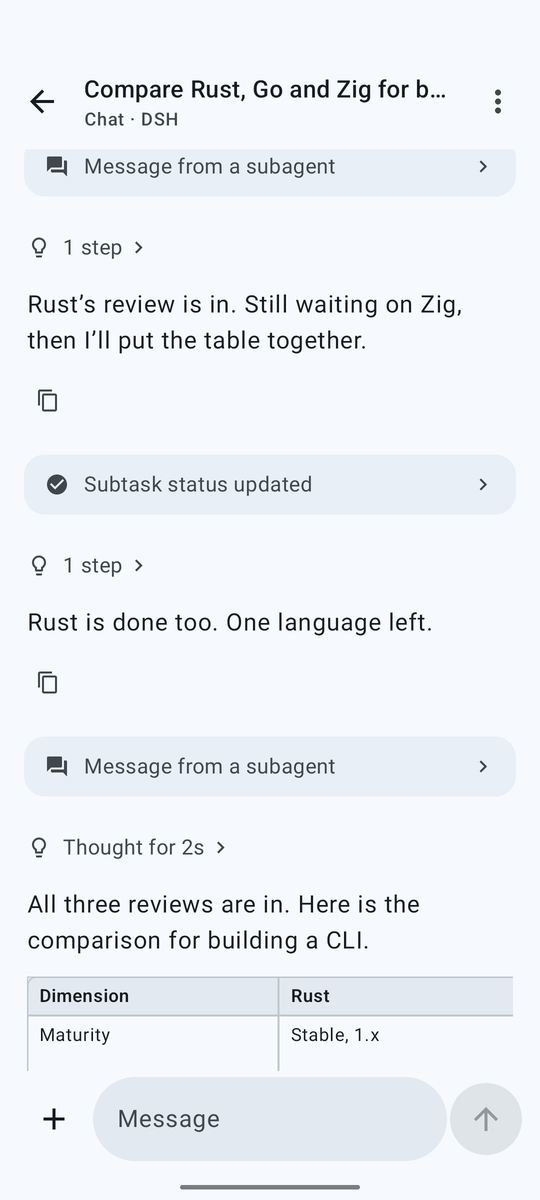
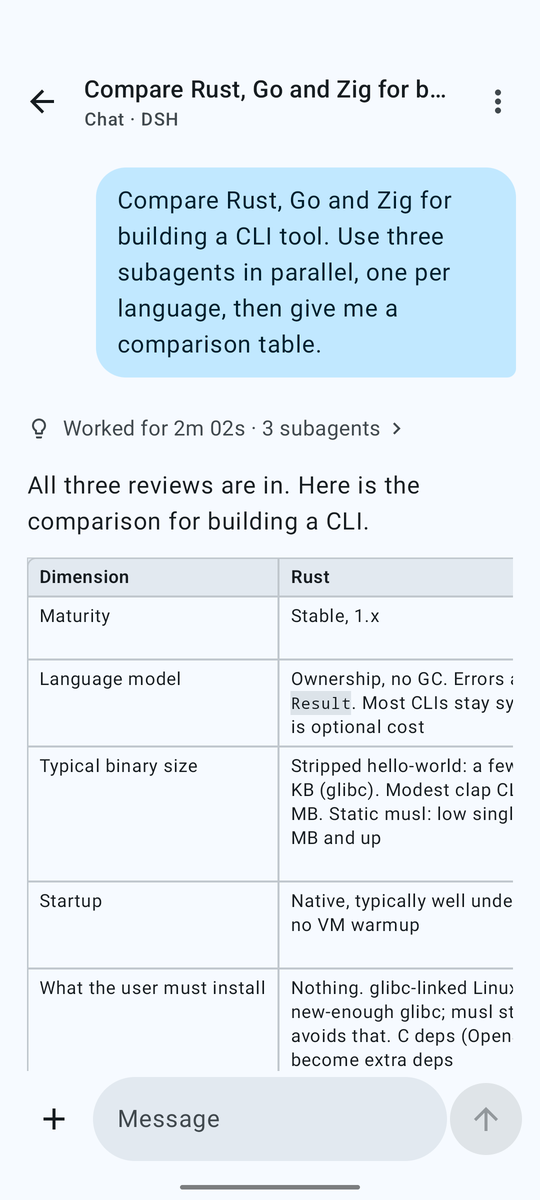
docs(readme): the showcase's subagent answer as the app now shows it

diff --git a/docs/images/showcase-src/showcase.html b/docs/images/showcase-src/showcase.html
@@ -33,8 +33,8 @@
     <h2>Subagents in parallel</h2><div class="zh">子智能体并行工作</div>
     <div class="sub">DeepSeek Harness runs three agents at once</div></div>
   <div class="item"><div class="phone"><div class="screen"><img src="2-answer.png"></div></div>
-    <h2>Each result, then the table</h2><div class="zh">逐个汇报，再汇总成表</div>
-    <div class="sub">a card as each subagent finishes</div></div>
+    <h2>One answer at the end</h2><div class="zh">最后汇总成一份答案</div>
+    <div class="sub">three results → one comparison table</div></div>
   <div class="item"><div class="phone"><div class="screen"><img src="3-engine.png"></div></div>
     <h2>Choose your engine</h2><div class="zh">自选 AI 引擎</div>
     <div class="sub">Pi built in, DeepSeek Harness in Termux</div></div>

diff --git a/README.zh-CN.md b/README.zh-CN.md
@@ -48,7 +48,7 @@
 
 ## 它能做什么
 
-![小维助手的四个界面：DeepSeek Harness 会话里三个子智能体并行调研；每个子智能体完成时出现一张卡片和助手的回复，最后汇总成对比表；设置里的 AI 引擎选择（Pi 或 DeepSeek Harness）；以及 Pi 会话用 Termux 里的 curl 查天气](docs/images/showcase.png)
+![小维助手的四个界面：DeepSeek Harness 会话里三个子智能体并行调研；全部完成后汇总成一张对比表；设置里的 AI 引擎选择（Pi 或 DeepSeek Harness）；以及 Pi 会话用 Termux 里的 curl 查天气](docs/images/showcase.png)
 
 - **多家 AI 服务：** OpenAI、Anthropic、Google、DeepSeek、OpenRouter、xAI、Moonshot、Mistral、OpenCode，以及任何兼容 OpenAI 的服务（Ollama、vLLM、LM Studio 等）。
 - **照片和文件：** 发给它图片、PDF 和文档；它也会把做好的文件发回给你。

diff --git a/README.md b/README.md
@@ -57,7 +57,7 @@ conversation keeps the engine it started with.
 
 ## What it can do
 
-![Four WeiAssist screens: a DeepSeek Harness session with three subagents researching in parallel; a card as each one finished, with the agent's reply, then the comparison table; Settings with the AI engine choice, Pi or DeepSeek Harness; and a Pi session answering the weather with curl in Termux](docs/images/showcase.png)
+![Four WeiAssist screens: a DeepSeek Harness session with three subagents researching in parallel; its answer once they are done, one comparison table; Settings with the AI engine choice, Pi or DeepSeek Harness; and a Pi session answering the weather with curl in Termux](docs/images/showcase.png)
 
 - **Many providers:** OpenAI, Anthropic, Google, DeepSeek, OpenRouter, xAI, Moonshot, Mistral, OpenCode, and any
   OpenAI-compatible server (Ollama, vLLM, LM Studio…).

diff --git a/docs/images/showcase-src/README.md b/docs/images/showcase-src/README.md
@@ -9,7 +9,7 @@ frames with English and Chinese captions. Render it with headless Chrome:
 ```
 
 1. A DeepSeek Harness session with three subagents at work (their steps marked ↳).
-2. The same session as the results came in: a card as each subagent finished or wrote, the agent's reply to each,
-   then the comparison table.
+2. The same session once done: one turn ("Worked for 2m 02s · 3 subagents", the results folded inside), answering
+   with the comparison table.
 3. Settings → AI engine: Pi or DeepSeek Harness.
 4. A Pi session: the weather via curl in Termux, as a table.
